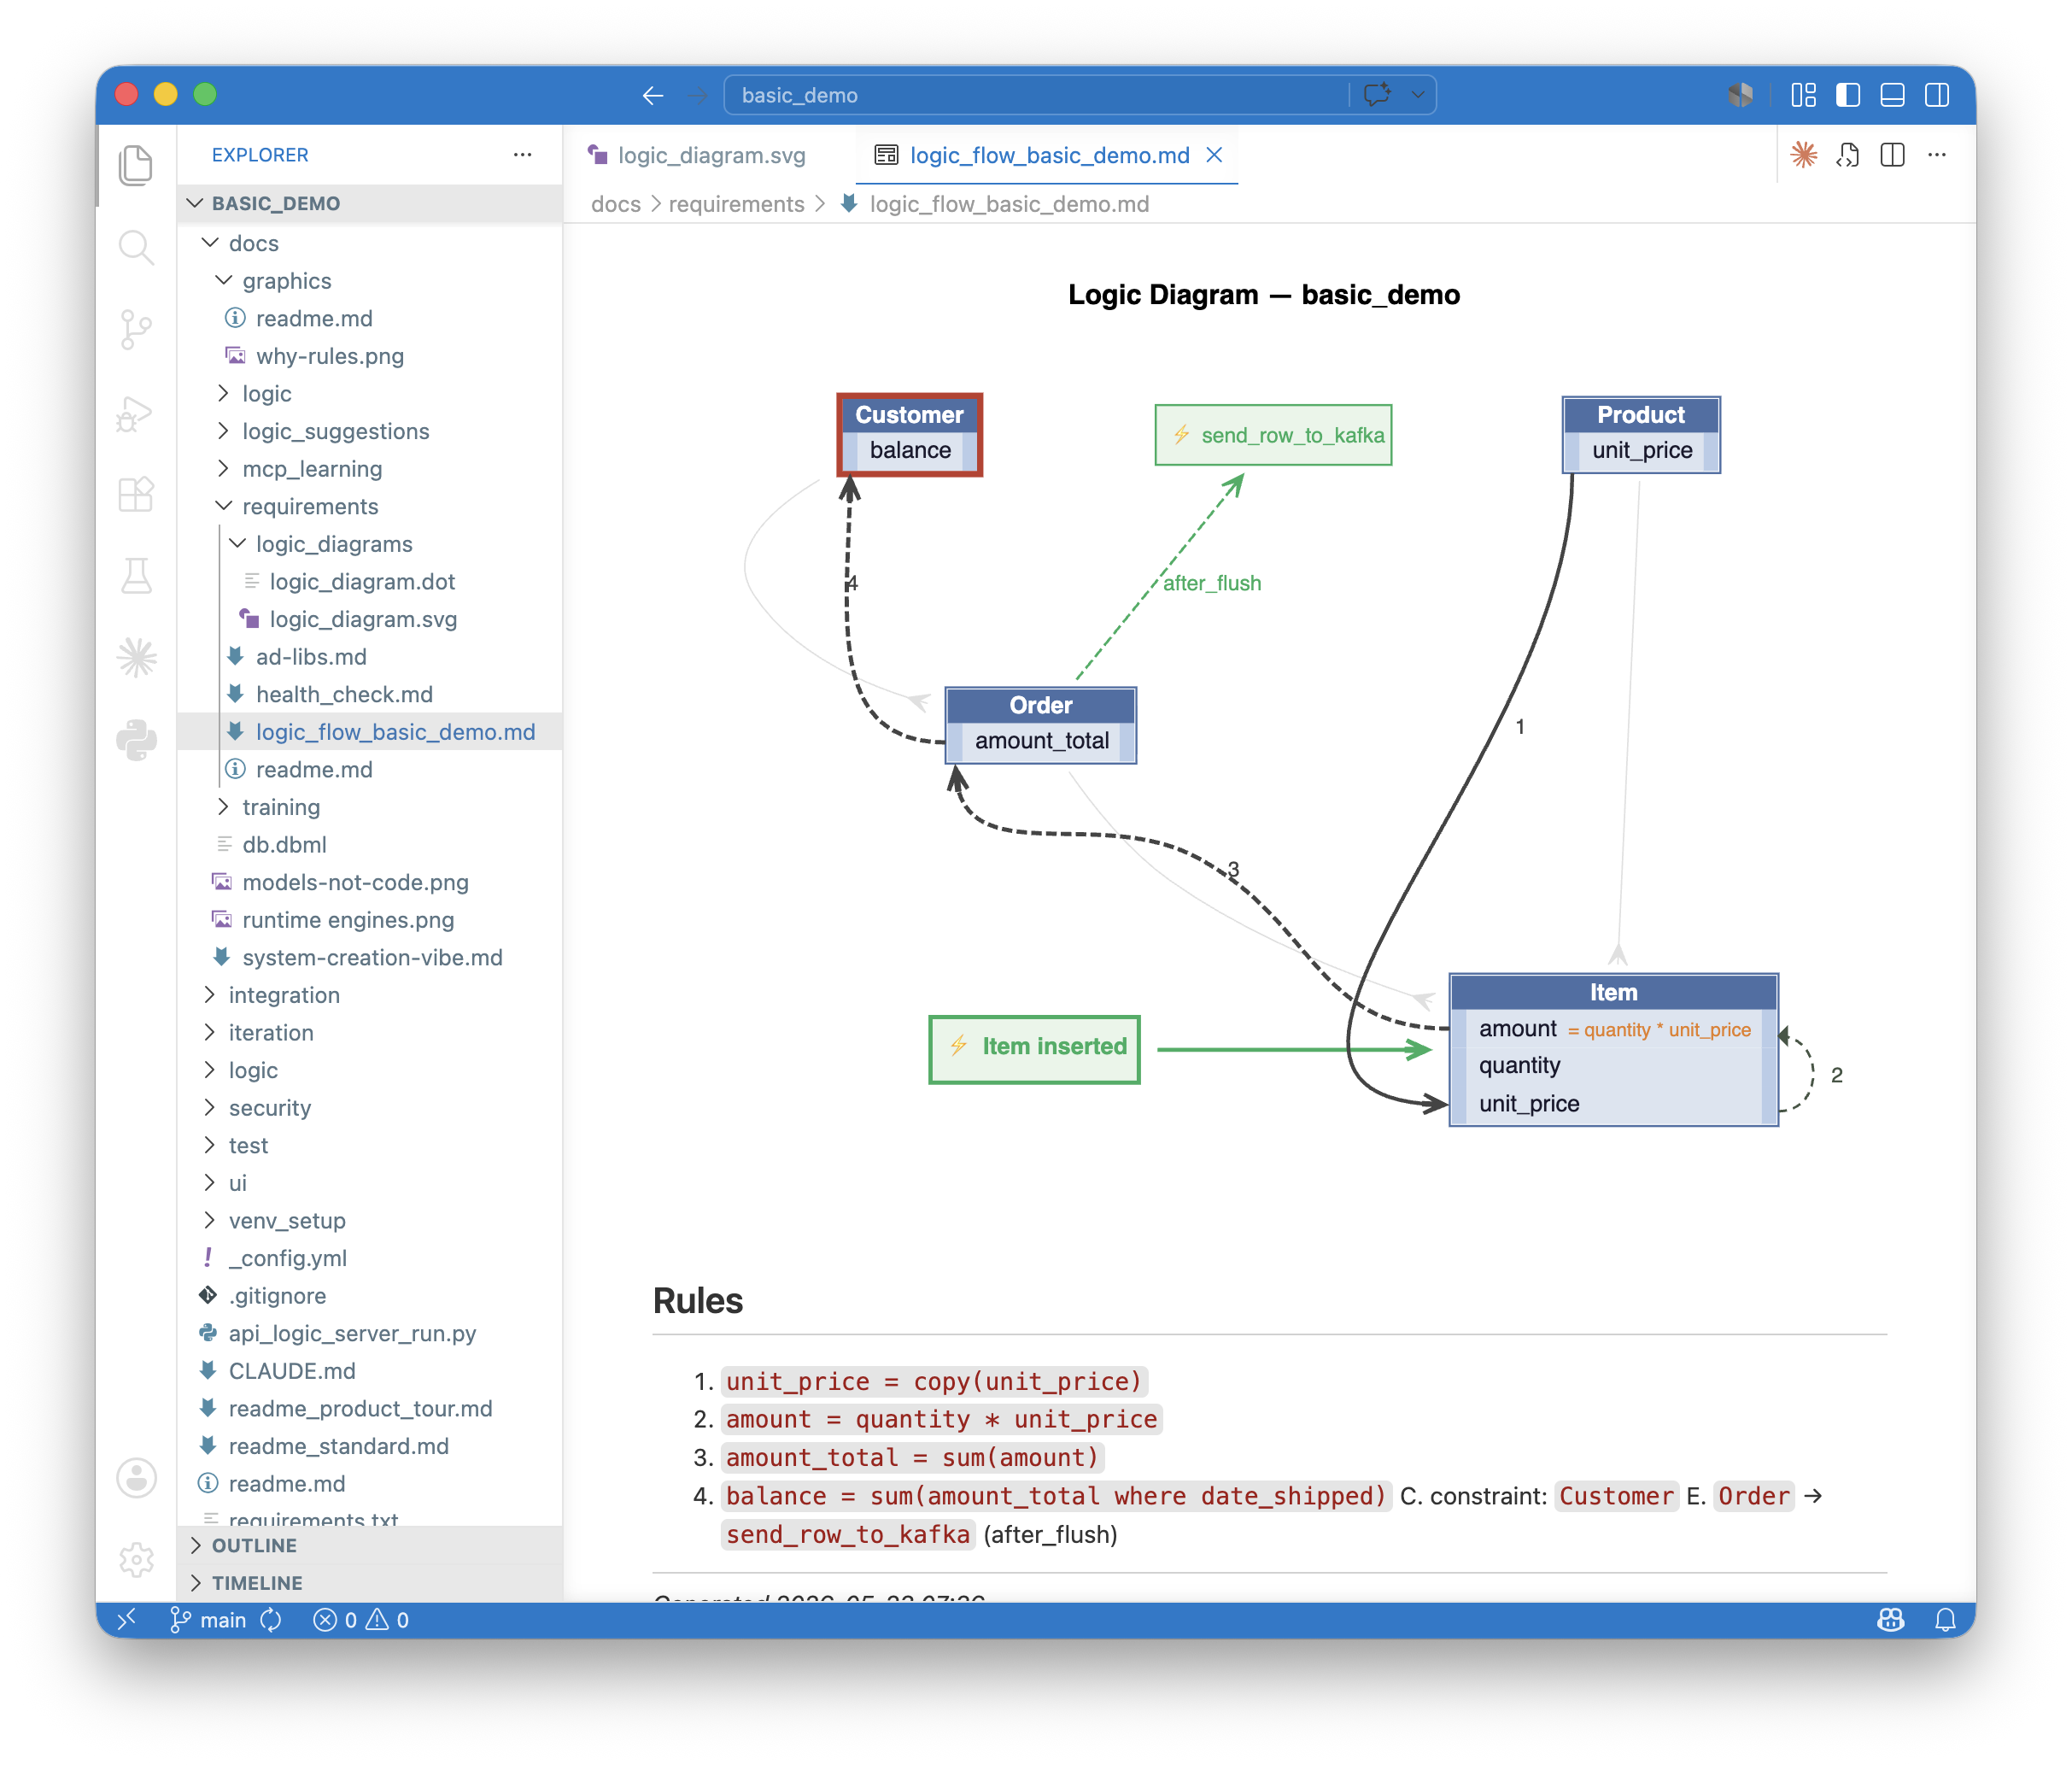
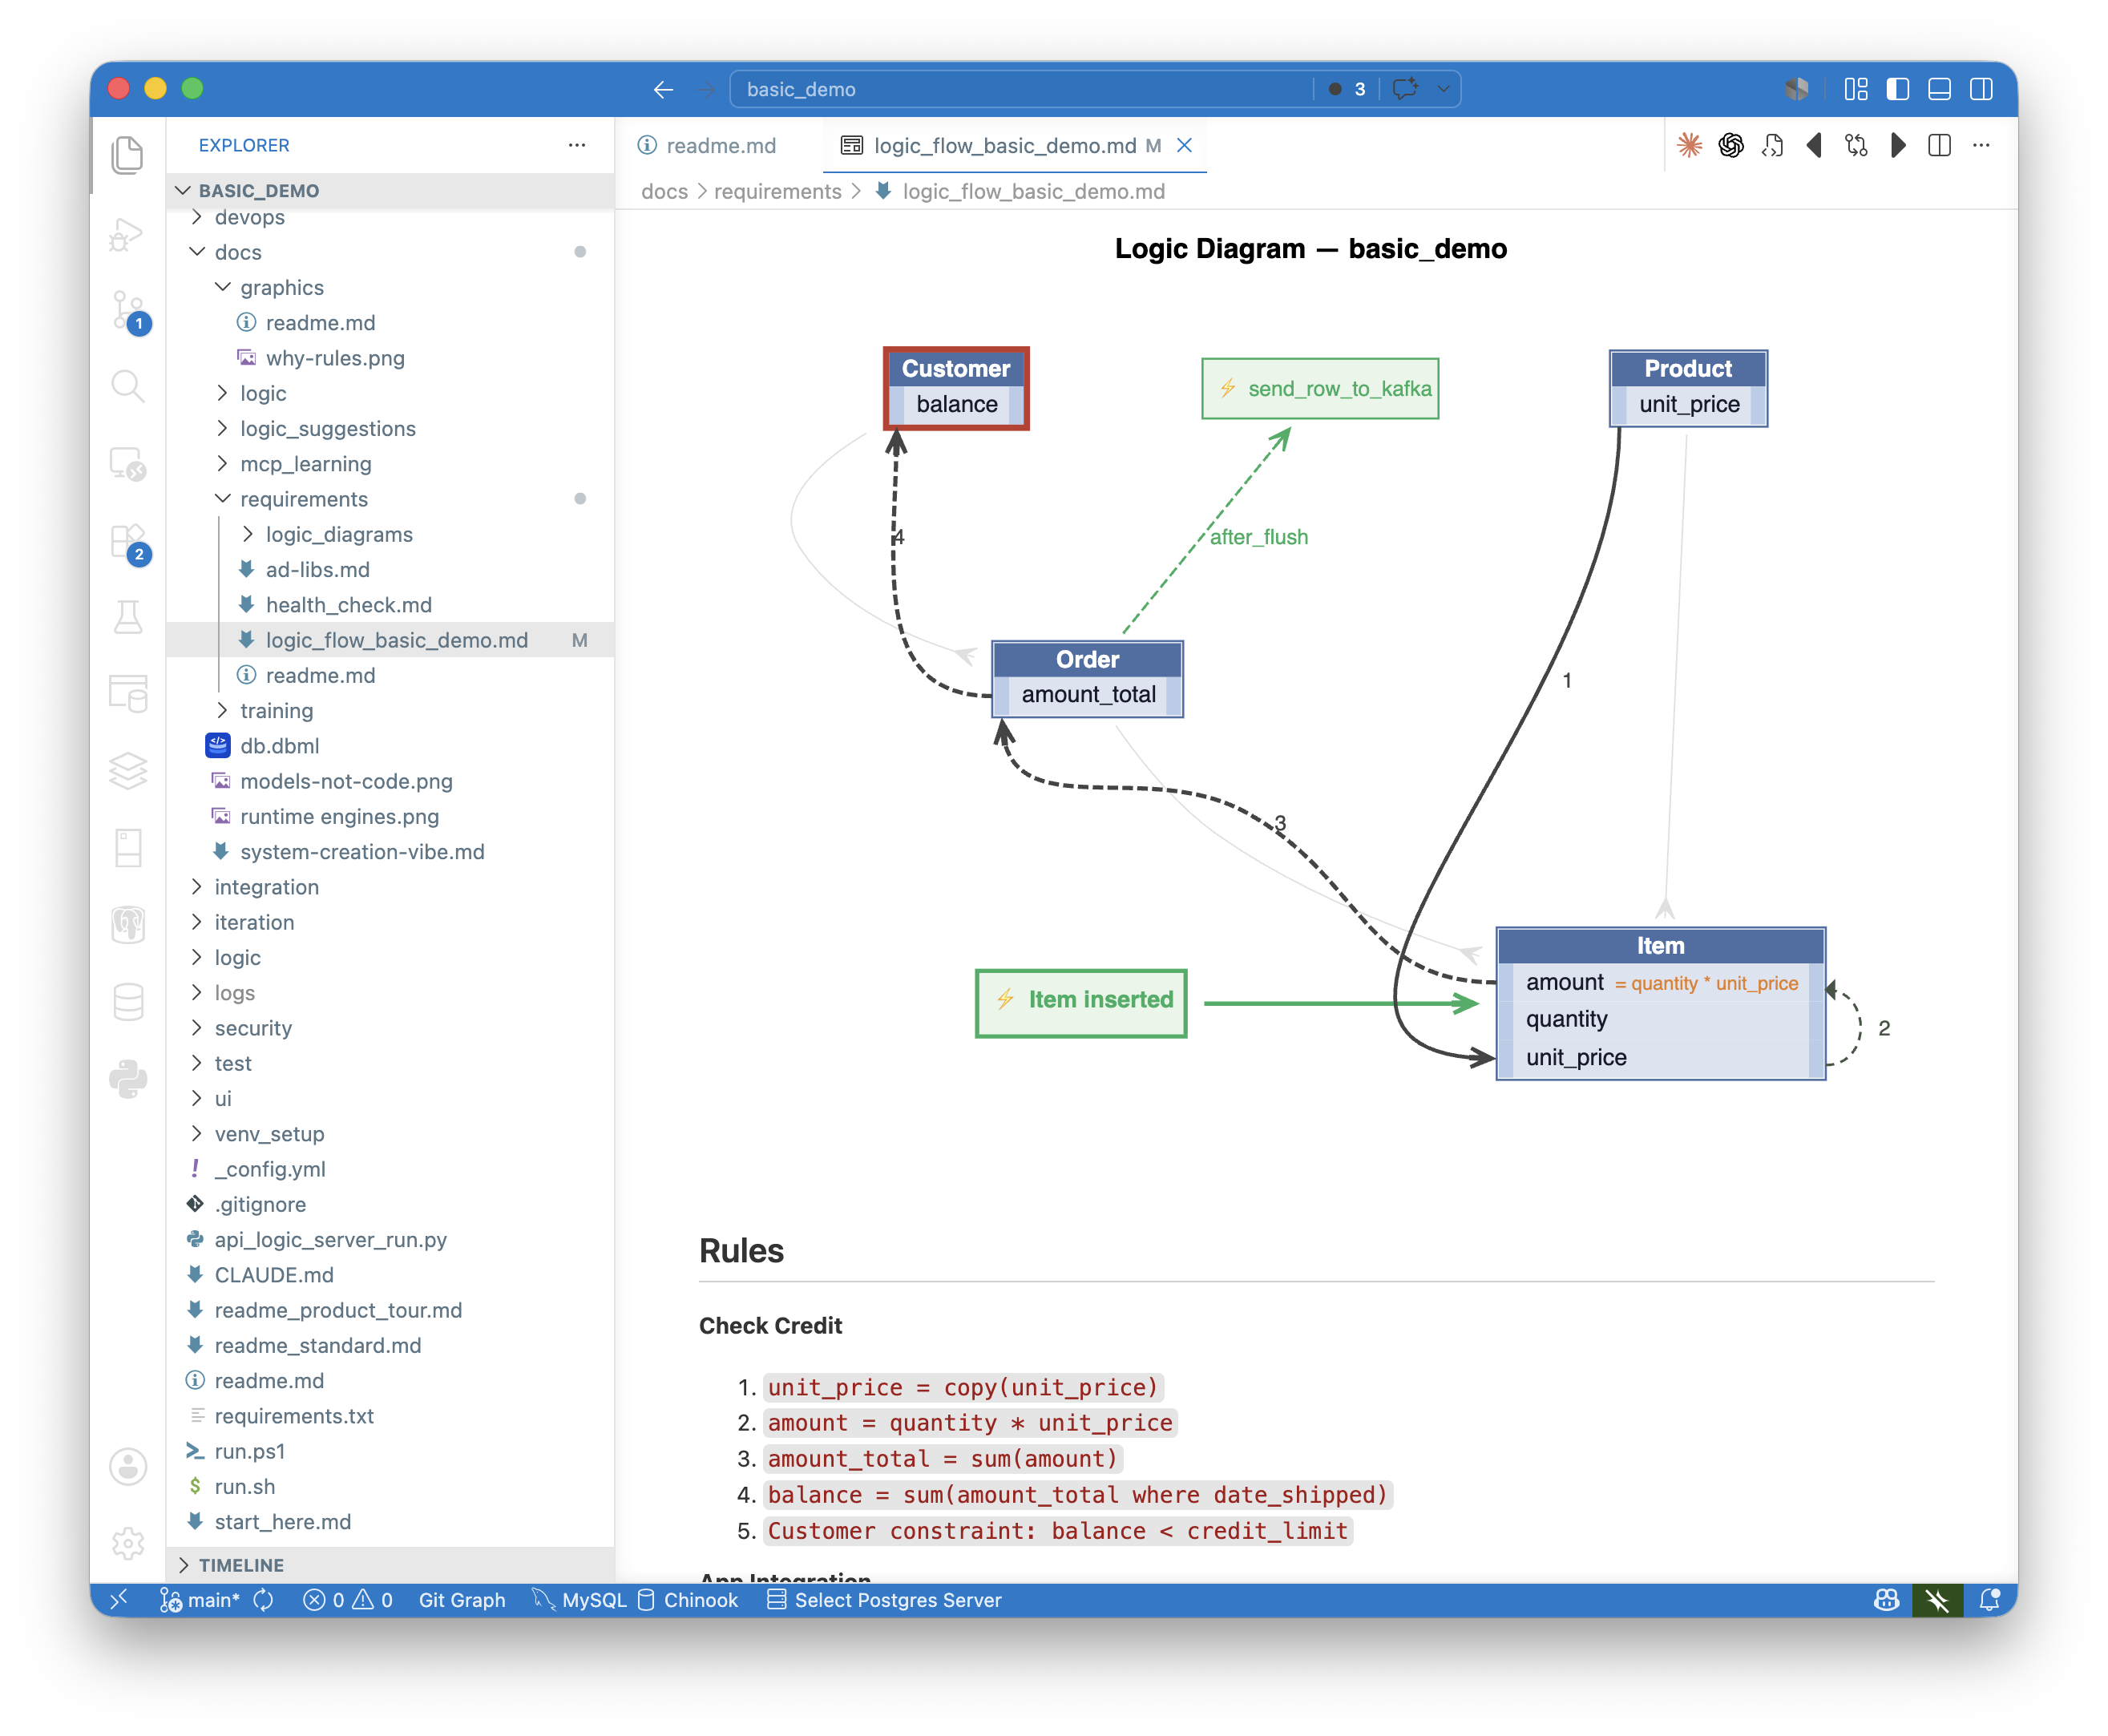
v16 - final edit pass

diff --git a/docs/Tech-XGR.md b/docs/Tech-XGR.md
@@ -2,7 +2,7 @@
 title: "AI Made Executable Requirements Real. Governance Is What Makes Them Deployable."
 author: Val Huber
 date: 2026-05-29
-version: 15
+version: 16
 ---
 
 # AI Made Executable Requirements Real. <br>*Governance* Is What Makes Them Deployable.
@@ -15,9 +15,11 @@ Watch any vibe-coding demo: a paragraph of English goes in, a working app comes 
 
 But there's a question every enterprise reader is asking when the demo ends. Would I put this into production? Where it touches my customers, my regulators, my eight-figure audit exposure? Where an auditor will eventually ask which rule fired on which transaction, and whether *all* required rules fire on *every* path?
 
-Today, the honest answer is no. Not because the code doesn't run — it does. Because nothing about it is governed.
+Today, the honest answer is no. Not because the code doesn't run — it does. It's because it's not governed.
 
-This article is about closing that gap. The capability has a name: **Executable Governable Requirements**, or **XGR**. In short: AI does what it's great at (translating intent), and a purpose-built runtime does what AI can't (enforcing that intent deterministically, on every path, with no bypass). The pipeline your team already runs doesn't change. What changes is the result: a governed system, not just a running one.
+This article is about closing that gap. The capability has a name: **Executable Governable Requirements**, or **XGR**. In short: 
+
+> AI does what it's great at (translating intent), and a purpose-built runtime does what AI can't (enforcing that intent deterministically, on every path, with no bypass). The pipeline your team already runs doesn't change. What changes is the result: a governed system, not just a running one.
 
 For business analysts, the payoff is direct: the requirement you wrote becomes the artifact that runs. There is no translation layer between your specification and what production enforces. For management, the payoff is governance that scales — measurable across the portfolio, reviewable by compliance, provable to auditors.
 
@@ -25,7 +27,7 @@ For business analysts, the payoff is direct: the requirement you wrote becomes t
 
 ## Why AI alone is not enough
 
-Both traditional development and AI-assisted development fail in the same two ways. The failures are easier to see side by side — and they matter because business logic (the multi-table derivations, constraints, and side-effects that make enterprise software *enterprise* software) is typically 40–50% of coding and debugging effort. These failures describe where most of the work happens, and most of the rework.
+Both traditional development and AI-assisted development fail in the same two ways. The failures are easier to see side by side — and they matter because business logic (the multi-table derivations, constraints, and side-effects that express critical business policy) is typically 40–50% of coding and debugging effort. These failures describe where most of the work happens, and most of the rework.
 
 **Failure one: lost intent.** A business analyst writes a requirement in five lines of English. A developer interprets it as 200 lines of procedural code. The intent ends up dispersed across handlers, branches, and helper functions — somewhere in there, but no longer visible. Six months later, compliance can't read it. The next developer who has to maintain it can't read it either. Both have to reconstruct what the system means from how it behaves.
 
@@ -33,7 +35,7 @@ AI doesn't fix this. It accelerates it. A modern coding assistant takes the same
 
 **Failure two: dependency bugs.** Enterprise business logic has transitive dependencies — change an item's price, and the order total changes, and the customer balance changes, and the credit check should re-run. A three-table system has nine distinct change paths. Procedural code has to enumerate each one explicitly. Developers miss paths. So does AI, for the same reason: pattern-matching across procedural control flow cannot reliably infer transitive dependencies. Multiple AI systems have admitted this when asked directly. It is a structural limitation, not a capability gap that will be patched in the next model.
 
-In a recent side-by-side test, the same five-rule requirement produced two outputs from the same AI assistant: a declarative version with five rules and zero bugs, and a procedural version with about 200 lines and two silent bugs — both involving foreign-key changes that updated the new parent but not the old. No exception was thrown. The data was just wrong. At five rules you might catch them. At five hundred — which is what an enterprise system looks like — you won't.
+In a recent side-by-side test (see references), the same five-rule requirement produced two outputs from the same AI assistant: a declarative version with five rules and zero bugs, and a procedural version with about 200 lines and two silent bugs — both involving foreign-key changes that updated the new parent but not the old. No exception was thrown. The data was just wrong. At five rules you might catch them. At five hundred — which is what an enterprise system looks like — you won't.
 
 **Failure three: missing paths.** Logic in code runs only on the paths the developer wrote it for. Every new endpoint, every new agent, every workflow added after the credit check was written is another path that has to remember to invoke it. The procedural model can't enforce on paths that don't yet exist. In an era of agentic systems and quarterly new integrations, the paths that don't yet exist are most of them.
 
@@ -47,7 +49,7 @@ Governance has emerged as the number-one CIO priority for 2026, overtaking cyber
 
 The cost of getting this wrong is no longer theoretical. Regulatory penalties run into the millions per incident. Remediation often costs more than the fine. And the audit problem itself is genuinely intractable under the traditional model: read hundreds of thousands of lines of code, determine whether the relevant rules exist, prove they execute on every path. Auditors sample and hope.
 
-This is the actual problem AI was supposed to help with, and the one current AI tooling makes worse — not better — because faster generation of unreviewable code is not progress. It's the same problem, faster.
+AI solved the speed problem. It made the governance problem worse — faster generation of unreviewable code is not progress. It's the same problem, faster.
 
 ---
 
@@ -89,21 +91,21 @@ The XGR engine hooks the ORM directly. It doesn't get a bag of objects — it ge
 
 The first is the **no-bypass guarantee**. Because the engine sits at the commit boundary inside the data layer, every persistent change passes through. A new developer can't forget to call it. A new agent can't bypass it. A prompt-injected agent can't bypass it either. There is no path to persistence that doesn't go through the engine. Governance becomes architectural, not behavioral.
 
-The second consequence is performance. Because the engine sees what changed, it can prune the rule graph to only the rules whose inputs actually moved, and it can maintain aggregates incrementally instead of recomputing them. A `count of children` rule, when a new child is added, costs one read and one update — not a `SELECT COUNT(*)` across the child table. In production work in an earlier generation of this architecture, this category of optimization turned four-minute transactions into two-second transactions. The analyst wrote `count`. They didn't have to know any of that happened.
+The second consequence is **performance.** Because the engine sees what changed, it can prune the rule graph to only the rules whose inputs actually moved, and it can maintain aggregates incrementally instead of recomputing them. A `count of children` rule, when a new child is added, costs one read and one update — not a `SELECT COUNT(*)` across the child table. In production work in an earlier generation of this architecture, this category of optimization turned four-minute transactions into two-second transactions. The analyst wrote `count`. They didn't have to know any of that happened.
 
-These properties — no-bypass enforcement, delta-aware optimization, adjustment semantics per rule type — are not features layered onto a rules engine. They are consequences of where the engine sits and what it sees. The result is a specialized runtime in the lineage of a relational query optimizer: a piece of infrastructure that takes years to mature and lives below the abstraction layer the user works at. The analyst writes `count`. The engine handles incremental maintenance, dependency ordering, and the dozens of edge cases that come with multi-table transactional logic. That is the right division of labor — and the same division that made SQL succeed: the user specifies what, the engine figures out how.
+These properties — no-bypass enforcement, delta-aware optimization, adjustment semantics per rule type — are not features layered onto a rules engine. They are consequences of where the engine sits and what it sees. The result is a specialized runtime in the lineage of a relational query optimizer: a piece of infrastructure that takes years to mature and lives below the abstraction layer the user works at. The analyst writes `count`. The engine handles incremental maintenance, dependency ordering, and the dozens of edge cases that come with multi-table transactional logic. That is the right division of labor — and the same division that made SQL and spreadsheets succeed: the user specifies ***what***, the engine figures out ***how***.
 
 Versata measured this category of system across production deployments before the AI era: declarative rules required writing only about 3% of equivalent procedural code. That reduction wasn't a style preference — it was the visible consequence of removing the procedural enumeration of paths that the engine handles structurally.
 
 ---
 
-## Two proofs: requirements in, regulation in
+## Two proofs: from requirements, from regulations
 
 The architecture has been demonstrated in two shapes, from two different sides of the requirements pipeline.
 
-**Requirements in: the basic Check Credit example.** A plain-English five-line requirement, written the way analysts naturally write requirements, compiled into five declarative rules, enforced on every commit, governed by architecture. The Logic Diagram you'll see in the next section is generated from this example. The pipeline doesn't change — analysts write what they already write. What changes is that the result is governed - all rules automatically invoked, no bypass, no dependency errors, auditable.
+**From Requirements: the basic Check Credit example.** A plain-English five-line requirement, written the way analysts naturally write requirements, compiled into five declarative rules, enforced on every commit, governed by architecture. The Logic Diagram you'll see in the next section is generated from this example. The pipeline doesn't change — analysts write what they already write. What changes is that the result is governed - all rules automatically invoked, no bypass, no dependency errors, auditable.
 
-**Regulation in: the CBSA Steel Derivative Goods Surtax proof-of-concept.** This is the more interesting case. The input was not a requirements document at all. It was a nine-line prompt citing the Canadian regulation directly — program code, tariff subsection, trigger conditions, four example country scenarios. No schema. No field mapping. No specs.
+**From Regulations: the CBSA Steel Derivative Goods Surtax proof-of-concept.** This is the more interesting case. The input was not a requirements document at all. It was a nine-line prompt citing the Canadian regulation directly — program code, tariff subsection, trigger conditions, four example country scenarios. No schema. No field mapping. No specs.
 
 The output was a working, tested system — and it's worth being specific about what "system" means here, because the inventory is the point:
 
@@ -120,15 +122,20 @@ All from one prompt. All governed by the same rules engine at the commit point. 
 
 This answers the agent question every CIO is asking: *won't AI agents bypass my controls?* The structural answer is no. The agent's only path to persistence is through the gate.
 
-This is a proof-of-concept, not a production deployment — a real, runnable, tested one, with the regulation citation in the prompt traceable through to the rules that enforce it. For a regulated industry, this is the bigger gain. The regulation-to-enforcement chain compresses to a single step, with the regulator's text as the source of truth and the running system as the artifact that enforces it. The most expensive translation chain in compliance is *regulation → requirements → specs → code → enforcement → audit*. Every handoff is a defect generator. The CBSA regulation has a familiar shape — trigger conditions, calculation rules, exemption clauses. Most regulated business runs on regulations of the same shape.
+This is a proof-of-concept — real, runnable, tested — with the regulation citation traceable through to the rules that enforce it. For regulated industries, the gain is larger than the speed story. The most expensive translation chain in compliance is *regulation → requirements → specs → code → enforcement → audit.* Every handoff is a defect generator.
 
-Both proofs produce the same governed runtime. Same engine, same enforcement guarantees, same auto-generated artifacts. The difference is how far upstream the source of truth lives. What makes this work is the composition: AI as translator, rules as the target, the engine as enforcement, the auto-generated artifacts as audit. Each layer has existed in some form. The combination is what creates deployable governance.
+XGR compresses that chain to a single step, with the regulator's text as the source of truth. What makes this work is the composition:
+
+- **AI** as translator
+- **Rules** as the target
+- **The engine** as enforcement
+- **The auto-generated artifacts** as audit
 
 ---
 
 ## Why this didn't work before
 
-Executable Requirements is a goal the industry has been chasing for decades. Many brave knights — CASE, 4GLs, MDA... The solution is marrying AI for intent translation with rules for intent execution.
+Executable Requirements is a goal the industry has been chasing for decades. Many brave knights — CASE, 4GLs, MDA... The solution is marrying *AI for intent translation*, with *rules for intent execution.*
 
 Declarative rules engines are not new. They have been available in mature form for thirty years. The Versata engine of the late 1990s did most of what is described here, minus the AI translation and the auto-generated artifacts. It worked. Teams that adopted it shipped systems faster, with fewer defects, and with audit characteristics the procedural alternative could not match.
 
@@ -160,11 +167,15 @@ Every developer insists on a database diagram. You can't engage with a system yo
 
 ![Logic Diagram — auto-generated, one per requirement. Requirement at top, rules at bottom, dependency graph in between.](images/articles/XGR/logic-diagram.png)
 
-The diagram for the Check Credit requirement shows what governance looks like statically. The requirement appears at the top in plain English, exactly as the analyst wrote it. The rules appear at the bottom in declarative form. Between them, the diagram shows the four-step dependency chain the engine will execute: Product price copies into Item price, formula computes Item amount, sum rolls up to Order total, sum rolls up (conditionally) to Customer balance.
+The diagram for the Check Credit requirement shows what governance looks like statically:
+
+* The **requirements** appear at the top in plain English, exactly as the analyst wrote it (not shown in this diagram). 
+* The **rules** appear at the bottom in declarative form. 
+* Between them, the **diagram** shows the four-step dependency chain the engine will execute: Product price copies into Item price, formula computes Item amount, sum rolls up to Order total, sum rolls up (conditionally) to Customer balance.
 
 Unlike a database diagram, which shows every column on every table, the Logic Diagram shows only what governance acts on. The signal-to-noise ratio is what makes it reviewable. A compliance officer can look at one of these and verify, in under a minute, that the rules implement the requirement.
 
-At portfolio scale, this is how review becomes tractable. One diagram per requirement, generated automatically, readable by the people whose job is to review them.
+This is how review becomes practical for a large system. One diagram per requirement, generated automatically, readable by the people whose job is to review them.
 
 ### 3. The Logic Report — per-test execution
 
@@ -186,7 +197,7 @@ Compliance proven, not asserted.
 
 ---
 
-## Agile, finally
+## Agile, At Last
 
 There's a derivative effect to all of this that deserves to be named, because it has been promised for twenty-five years and never quite delivered.
 
@@ -216,14 +227,23 @@ This is the difference between adopting infrastructure and adopting an exception
 
 ## The dividing line
 
-Governance-by-discipline was already failing in traditional systems, at significant cost, well before AI arrived. AI didn't create the problem. It made it the problem every CIO has to solve in the next budget cycle.
+Governance-by-discipline was already failing in traditional systems, at significant cost, well before AI arrived. AI didn't create the problem. It made it the problem every CIO has to solve, *now.*
 
-As W. Ries [argued in this publication recently](https://medium.com/), the organizations that solve it will solve it architecturally — rules at the commit point, in declarative form, generated from the requirements the business already writes. The organizations that try to solve it with more process, tighter agent confinement, and better-trained reviewers will spend the next five years discovering, in audit findings, that those approaches scale with the size of the discipline problem rather than against it. That is the dividing line.
+As W. Ries [argued in this publication recently](https://medium.com/), the organizations that solve it will solve it architecturally — rules at the commit point, in declarative form, generated from the requirements the business already writes. The organizations that try to solve it with more process, tighter agent confinement, and better-trained reviewers will find that those approaches get more expensive as the problem grows — not less. That is the dividing line.
 
 Speed alone produces prototypes. What you can actually deploy is a complete system — API, UI, integration, security — where every component, including the ones added tomorrow, inherits governance from the commit boundary. The rule is the requirement. The engine enforces it. The artifacts prove it ran. The analyst validated it before development began.
 
-This is not a faster way to write code. It is a different kind of infrastructure — governed transactional logic as a first-class layer of the enterprise stack, alongside the database and the message bus. The procedural alternative is a translation layer the industry has never made reliable. The next budget cycle is no longer willing to pay for it.
+This is not a faster way to write code. It is a new kind of infrastructure — governed transactional logic as a first-class layer of the enterprise stack, alongside the database and the message bus. The procedural alternative is a translation layer the industry has never made reliable. The next budget cycle is no longer willing to pay for it.
 
 ---
 
 *Val Huber is co-founder and architect of GenAI-Logic, and previously CTO at Versata.*
+
+---
+
+**References**
+
+- W. Ries, *[Governance by Architecture, Not Discipline](https://medium.com/)* — the architectural argument this article builds on
+- Val Huber, *[Declarative Rules vs. Procedural Logic: A Reproducible Comparison](https://github.com/ApiLogicServer/basic_demo/blob/main/logic/procedural/declarative-vs-procedural-comparison.md)* — the A/B test referenced in Failure two
+
+---